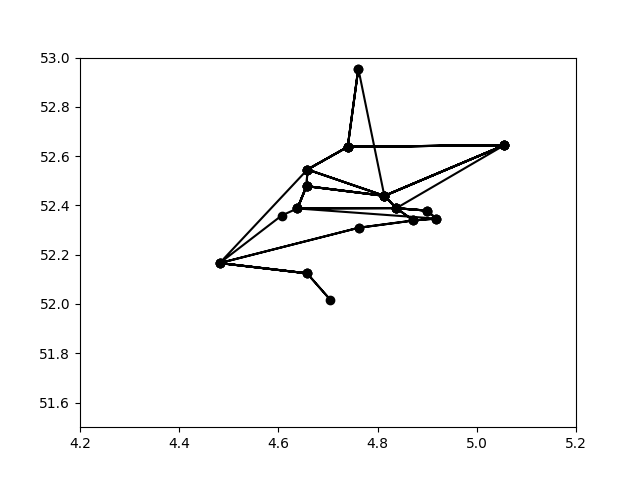
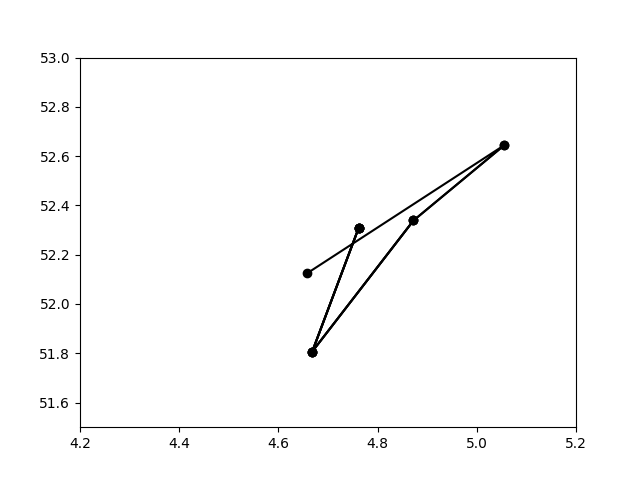
updated random

diff --git a/code/algorithms/random.py b/code/algorithms/random.py
@@ -5,14 +5,14 @@ import copy
 def get_random_routes(test):
 
         # laad een lege dictionary om routes in te stoppen
-        routes = {}
+        routes_trajecten = {}
         counter = 0
 
         # kopieer de stations en stop ze in een lijst zodat we een random object kunnen vinden
         copy_stations = copy.deepcopy(test)
         copy_stations_list = copy.deepcopy(list(copy_stations.items()))
 
-        while len(routes) < 7 and len(copy_stations) != 0:
+        while len(routes_trajecten) < 7 and len(copy_stations) != 0:
             #     duration = 0
 
             # maak een lege lijst aan voor stationnen en routes
@@ -82,10 +82,13 @@ def get_random_routes(test):
                         route.append(connection_end)
 
                     counter += 1
-                    routes[counter] = route
-                    print(routes)
+                    # routes_trajecten[counter] = route
+                    routes_trajecten[counter] = Routes(route)
+                    routes_trajecten[counter].add_routes(counter, route)
+                    print(routes_trajecten)
                     break
         print(copy_stations)
+        return routes_trajecten
 
         #     print(connections_start_station) #lijst met connections [('Amsterdam Amstel', '8'), ('Amsterdam Sloterdijk', '6')]
             

diff --git a/code/classes/routes.py b/code/classes/routes.py
@@ -27,13 +27,14 @@ def print_results(test2):
         print(test2)
         
         
+        #for key,value in test2.items():
         for key,value in test2.items():
-            routes = []
+            routess = []
             print(value.stations)
             trains_count += 1
             for station in value.stations:
-                route = station[0]
-                routes.append(route)    
-            thewriter.writerow({'train': trains_count, 'route': routes})
+                route = station
+                routess.append(route)    
+            thewriter.writerow({'train': trains_count, 'route': routess})
 
 
